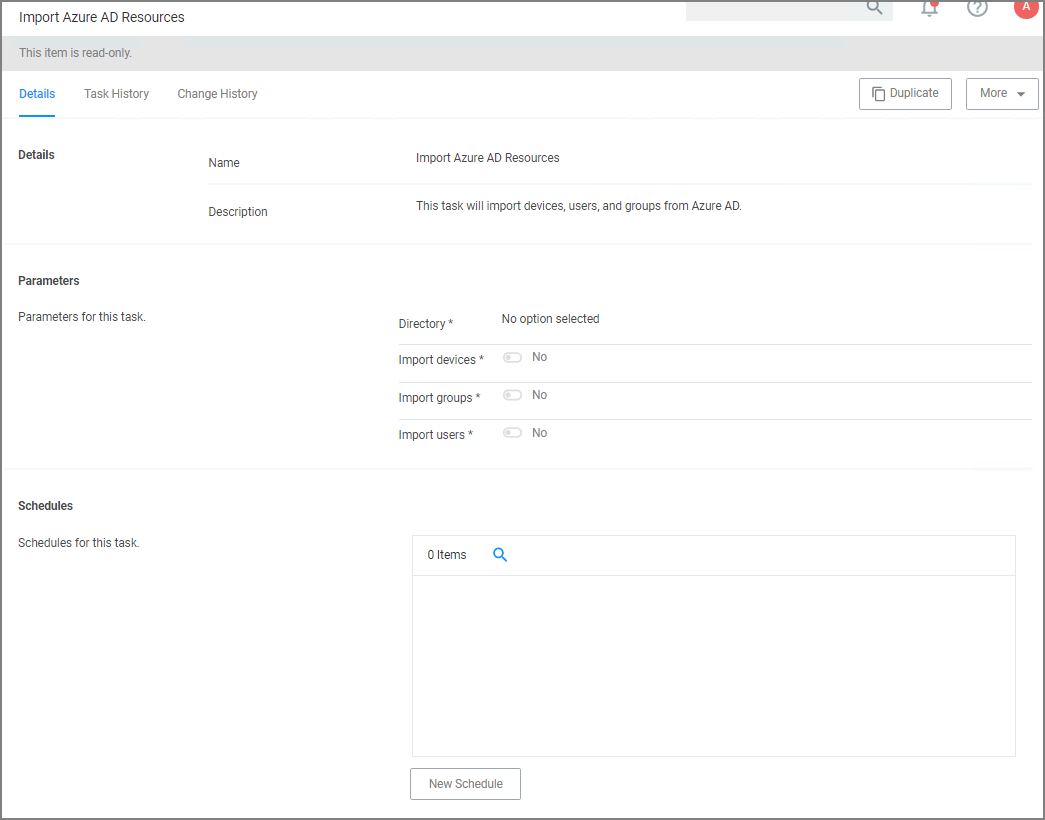
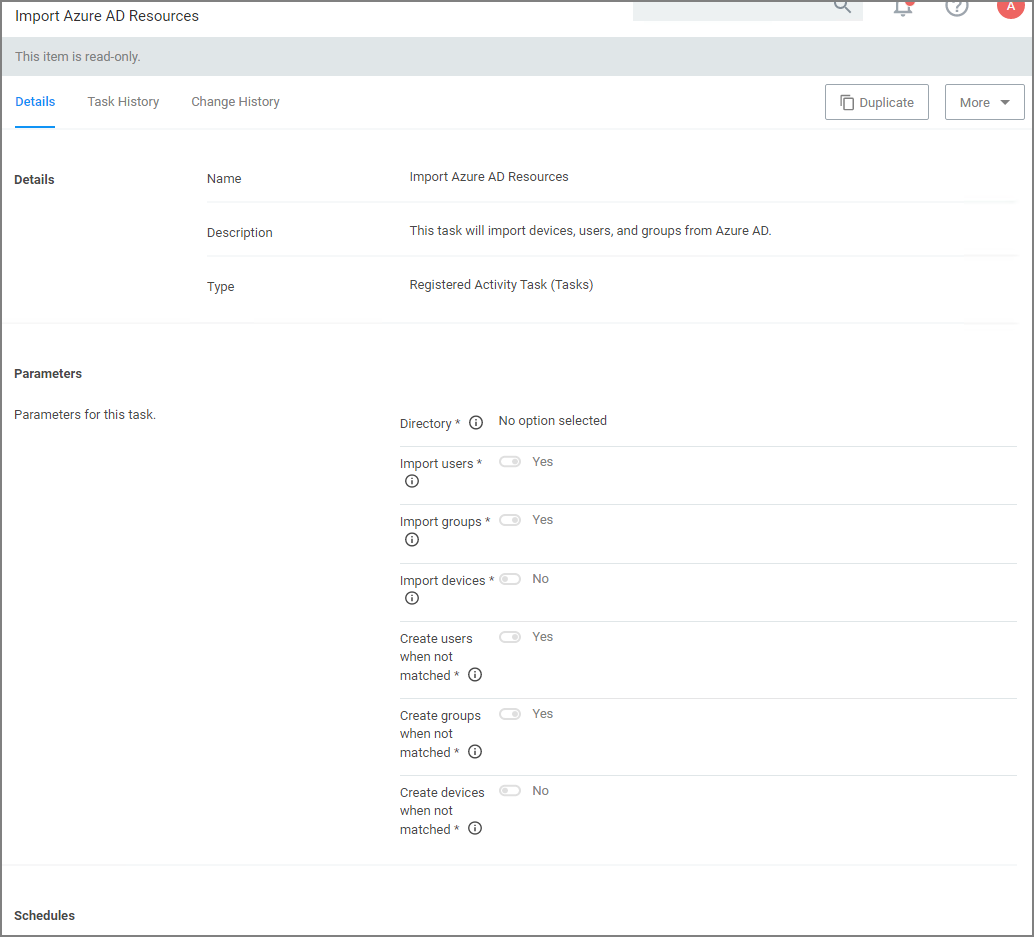
#251400: task reorg around deleting DS resources, new folder structure under Server tasks/foreign systems

diff --git a/admin/tasks/server/index.md b/admin/tasks/server/index.md
@@ -11,15 +11,6 @@
 | | Get Security Ratings for Files | Get/update the security ratings for the given files. |
 | | Refresh Security Rating Reports | Refreshes old security rating reports for resources rated by the given provider. |
 | Application Control Cylance | | |
-| Directory Services | Default Import AzureAD Users/Groups | Run this task to import/update Azure AD users and groups. |
-| | Default Import Directory | Run this task to import/update directory OUs, users, and containers. |
-| | Default Import Directory Computers | Run this task to import/update directory computer resources. |
-| | Default Import Directory Sites | Run this task to import/update directory sites. |
-| | Import Specific Azure AD Users and Groups | Import specific users and groups from Azure Active Directory. |
-| | Merge Duplicate Account SID Resources | Run this task to merge resources that have a duplicate account SID. |
-| | Synchronize Organizational Unit Server Task | Synchronize Organizational Unit Server Task. |
-| | Update OU Directory Scope Collections Membership | This task updates the membership of Directory Services OU scope collections. |
-| | Update OU Directory Scope Collections Membership 2 | This task updates the membership of Directory Services OU scope collections. |
 | [Email Tasks](../scheduled/email-reports.md) | Send Gauge Summary E-mail Task | Send a specific report on a schedule. |
 | File Inventory | Inventory File | Run this task to collect detailed information on the selected file for reports, filters, etc. |
 | | Inventory File Resource | Run this task to update information on an existing file resource for reports, filters, etc. |
@@ -29,6 +20,23 @@
 | | Inventory Packages Referenced in Allow Lists | Run this task to collect detailed information for files contained in packages referenced in one or more allow lists. |
 | | Inventory Uploaded File | This task is used internally to collect detailed information from files uploaded remotely to the server. It is visible only for status information and troubleshooting. |
 | Foreign Systems | | |
+| | Refer to | [Directory Services](fs-ds.md) for details on the following Directory Services Tasks |
+| Directory Services | Import Directory | Run this task to import/update directory OUs, users, and containers. |
+| | Import Directory Computers | Run this task to import/update directory computer resources. |
+| | Import Directory Sites | Run this task to import/update directory sites. |
+| | Import Specific Azure AD Users and Groups | Import specific users and groups from Azure Active Directory. |
+| | Synchronize Organizational Unit Server Task | Synchronize Organizational Unit Server Task. |
+| | Update OU Directory Scope Collections Membership | This task updates the membership of Directory Services OU scope collections. |
+| | Update OU Directory Scope Collections Membership 2 | This task updates the membership of Directory Services OU scope collections. |
+| DS - Maintenance | Delete Imported Azure AD Resources | This task will delete users, groups, and devices from Privilege Manager that were imported from Azure AD. |
+| | Refer to | [Directory Services Maintenance](fs-ds-maint.md) for details on the following Directory Services Maintenance Tasks |
+| | Delete Imported Directory Resources | This task will delete users, groups, computers, OUs, and Sites from Privilege Manager that were imported from AD. |
+| | Merge Computers with Duplicate Azure Device IDs | This task will merge computers with duplicate Azure AD Device IDs. |
+| | Merge Duplicate Account SID Resources | Run this task to merge resources that have a duplicate account SID. |
+| | OU Directory Scope Collection Update | This task updates the membership of Directory Services OU scope collections based on a selected Schedule Type. |
+| | Update OU Directory Scope Collections Membership | This task updates the membership of Directory Services OU scope collections. |
+| | Update OU Directory Scope Collections Membership 2 | This task updates the membership of Directory Services OU scope collections. |
+| Obsolete | Import Azure Ad Users/Groups | This task is obsolete and should not be used anymore. |
 | | [SCCM](../../config/foreign-systems/third-party/set-up-sccm.md) | Tasks here let you synchronize users, computers, and specific SCCM collection. |
 | | [ServiceNow](../../config/foreign-systems/third-party/set-up-servicenow.md) | Creates ServiceNow Approval Request items. |
 | | [Symantec Management Platform](../../config/foreign-systems/third-party/set-up-smp.md) | Tasks here let you synchronize SMP collections and package(s). |

diff --git a/admin/tasks/server/fs-ds.md b/admin/tasks/server/fs-ds.md
@@ -1,0 +1,90 @@
+[title]: # (Directory Services)
+[tags]: # (foreign systems)
+[priority]: # (3)
+
+# Directory Services Tasks
+
+The directory services tasks in this components are all covering different type of directory services imports.
+
+You find the tasks when you:
+
+1. Navigate to __Admin | Tasks__.
+1. On the Tasks tab under Jobs and Tasks, select __Server Tasks__.
+1. Select __Foreign Systems | Directory Services__.
+
+## Import Azure AD Resources
+
+This task will import devices, users, and groups from Azure AD.
+
+### Parameters
+
+* Directory: The Azure AD instance from which to import/synchronize.
+* Import Users: If set then this task will search for users in the given Azure AD instance.
+* Import Groups: If set then this task will search for groups in the given Azure AD instance.
+* Import Devices: If set then this task will search for devices in the given Azure AD instance.
+* Create users when not matched: If set then users not matched to an existing resource in Privilege Manager will be created.
+* Create groups when not matched: If set then groups not matched to an existing resource in Privilege Manager will be created.
+* Create devices when not matched: If set then devices not matched to an existing resource in Privilege Manager will be created.
+
+  >**Note**: Devices are particularly vulnerable to duplication because of lack of identifiers in Azure AD. Refer to [Best Practices for AD Imports](../../../how-to/best-practices/ad-import/index.md) for details.
+
+## Import Directory Computers
+
+Run this task to import/update computers and their OUs.
+
+### Parameters
+
+* Directory Id: The directory Id from which to import/synchronize. This is the only required parameter for this task.
+* Directory partner Id:
+* Full sync:
+* Query: Where the object class = the computer.
+* Search configuration:
+
+## Import Directory Sites
+
+Run this task to import/update directory sites.
+
+### Parameters
+
+* Directory Id: The directory Id from which to import/synchronize. This is the only required parameter for this task.
+* Directory partner Id:
+* Full sync:
+* Query: Where the object class = the site.
+* Search configuration:
+
+## Import Directory Users and Groups
+
+Run this task to import/update users, groups, and their OUs.
+
+### Parameters
+
+* Directory Id: The directory Id from which to import/synchronize. This is the only required parameter for this task.
+* Directory partner Id:
+* Full sync:
+* Query: Where the object class = the site.
+* Search configuration:
+
+## Import Directory OU
+
+Run this task to import resources from a specific Directory Services OU.
+
+### Parameters
+
+* Organization Unit:
+
+## Import Specific Azure AD Users and Groups
+
+This task will import the specified users, devices, groups, and optionally child groups, users, and devices from Azure AD.
+
+### Parameters
+
+* Azure AD: The Azure AD instance from which to import/synchronize.
+* Create groups when not matched (no): If set then devices not matched to an existing resource in Privilege Manager will be created. NOTE: Devices are particularly vulnerable to duplication because of lack of identifiers in Azure AD. See documentation for details.
+* Create groups when not matched (yes): If set then groups not matched to an existing resource in Privilege Manager will be created.
+* Create users when not matched: If set then users not matched to an existing resource in Privilege Manager will be created.
+* Device names: The display names of the devices to import. Leave empty for none. Use a newline between names. End name with '*' to find all that start with the given name.
+* Group display names: The display names of the groups to import. Leave empty for none. Use a newline between names. End name with '*' to find all that start with the given name.
+* Import child devices: If set then child devices of any discovered group will be imported.
+* Import child users: If set then child users of any discovered group will be imported.
+* Recurse child groups: If set then child groups of the given group names will be imported recursively.
+* User names: The display names or user principal names (UPN) of the users to import. Leave empty for none. Use a newline between names. End name with '*' to find all that start with the given name.

diff --git a/admin/tasks/server/fs-ds-maint.md b/admin/tasks/server/fs-ds-maint.md
@@ -1,0 +1,76 @@
+[title]: # (Directory Services Maintenance)
+[tags]: # (foreign systems)
+[priority]: # (3)
+
+# Directory Services Maintenance Tasks
+
+The tasks in this components all help with the maintenance of directory services resources. These tasks are all read-only items that need to be duplicated for any task customization.
+
+You find the tasks when you:
+
+1. Navigate to __Admin | Tasks__.
+1. On the Tasks tab under Jobs and Tasks, select __Server Tasks__.
+1. Select __Foreign Systems | Directory Services__.
+1. Select __Maintenance__.
+
+## Delete Imported Azure AD Resources
+
+This task will delete users, groups, and devices from Privilege Manager that were imported from Azure AD.
+
+### Parameters
+
+* Directory: The Azure AD instance from which to delete resources.
+* Delete users: If set then this task will delete users from Privilege Manager imported from the given directory.
+* Delete groups: If set then this task will delete groups from Privilege Manager imported from the given directory.
+* Delete devices: If set then this task will delete computers and other devices from Privilege Manager imported from the given directory.
+* Ignore dependencies: Use this as a last resort if you wish to delete and ignore any items that depend on the resources being deleted.
+
+## Delete Imported Directory Resources
+
+This task will delete users, groups, computers, OUs, and Sites from Privilege Manager that were imported from AD.
+
+### Parameters
+
+* Directory: The AD instance from which to delete resources.
+* Delete users: If set then this task will delete users from Privilege Manager imported from the given directory.
+* Delete groups: If set then this task will delete groups from Privilege Manager imported from the given directory.
+* Delete computers: If set then this task will delete computers from Privilege Manager imported from the given directory.
+* Delete organization: If set then this task will delete OUs from Privilege Manager imported from the given directory.
+* Delete sites: If set then this task will delete sites from Privilege Manager imported from the given directory.
+* Ignore dependencies: Use this as a last resort if you wish to delete and ignore any items that depend on the resources being deleted.
+
+## Merge Computers with Duplicate Azure Device IDs
+
+This task will merge computers with duplicate Azure AD Device IDs.
+
+### Parameters
+
+* Directory: The Azure AD instance from which to merge resources. Leave empty for all
+
+## Merge Duplicate Account SID Resources
+
+Run this task to merge resources that have a duplicate account SID.
+
+### Parameters
+
+* Target Resources: Leave empty to automatically discover all. Select only the target, not its duplicates. Any resources with SID matching a target will be merged into the target.
+
+## OU Directory Scope Collection Update
+
+This task updates the membership of Directory Services OU scope collections based on a selected Schedule Type.
+
+## Update OU Directory Scope Collections Membership
+
+This task updates the membership of Directory Services OU scope collections.
+
+### Parameters
+
+* Directory collections: The set of directory collections whose membership will be updated.
+
+## Update OU Directory Scope Collections Membership 2
+
+This task updates the membership of Directory Services OU scope collections. 
+
+### Parameters
+
+This task has a Force all parameter that, if set the membership of all directory scope collections will be updated, regardless of update required detection.

diff --git a/admin/config/foreign-systems/active-directory/set-up-privilege-manager-azure-ad-integration.md b/admin/config/foreign-systems/active-directory/set-up-privilege-manager-azure-ad-integration.md
@@ -89,12 +89,18 @@ You will need the Application Id and the Client Secret you copied to the clipboa
 1. Click __Save Changes__.
 1. Continue to the Azure AD Authentication Provider section and click __Edit__.
 1. Complete the three steps:
-   1. Import Users & Groups from Azure AD. This process may take a few minutes to complete, depending on the size of the directory. Privilege Manager offers two tasks for this import:
+   1. Import Users & Groups from Azure AD. This process may take a few minutes to complete, depending on the size of the directory. Privilege Manager offers various different tasks for this import:
 
-      * __Default Import AzureAD Users/Groups__, imports ALL users and groups.
+      * __Import Azure AD Resources__, imports ALL users and groups.
+      * __Import Directory Computers__.
+      * __Import Directory Sites__.
+      * __Import Directory Users and Groups__.
+      * __Import Directory OU__.
       * __Import Specific Azure AD Users and Groups__, imports only the specified users and/or groups.
 
       Refer to setup and scheduling of these tasks under the "Import Users and Groups via Privilege Manager Task" and "Create Scheduled Task for Users/Groups Synchronization" topics below.
+
+      Also refer to the [Server Tasks | Foreign Systems | Directory Services](../../../tasks/server/fs-ds.md) for details on the Directory Services tasks.
    1. Assign Azure user(s) to the Privilege Manager Administrators Role. In order for users to authenticate via Azure AD, they will need to be added as members of various roles. There must be at least one member from this Azure Directory allowed to login via Azure AD before you can continue. We recommend adding yourself to ensure that you can login after the Authentication Provider is configured.
    1. Set as Authentication Provider.
 1. Click __Save Changes__.

diff --git a/release-notes/11.1.0-combined.md b/release-notes/11.1.0-combined.md
@@ -17,6 +17,7 @@ Enhancements available with the 11.1.0 release of Privilege Manager. Enhancement
   * Group Policies:
     * Add/remove Azure AD users from group policies
     * Add Azure AD user SID to local machine group
+* Reorganization of the Server tasks as it relates to Foreign Systems and Directory Services tasks. Created new component entry [Directory Services Maintenance Tasks](../admin/tasks/server/fs-ds-maint.md).
 * In support of __Computer Name Pattern Collections__, the [Computer by Name Pattern Query](../admin/resources/cust-data-src.md) was added to Privilege Manager. The query allows to create custom collections containing a subset of computers based on a wild card supported name query.
 * Added a framework that allows real-time status reporting of running server-side tasks. This is currently available for the AD Import task only.
 * Privilege Manager now automatically sets the home directory path during provisioning.
